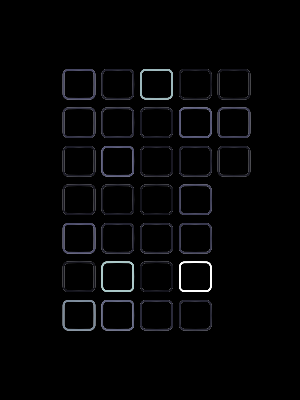
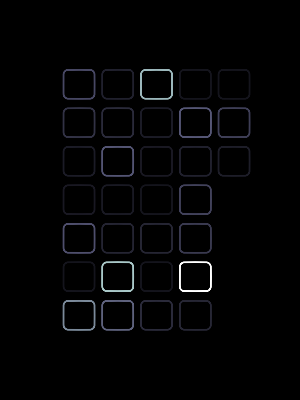
Fix plot problems when days longer than one month

diff --git a/contribution.py b/contribution.py
@@ -40,10 +40,13 @@ def contributionPlot(activity_observed, by = "month", save = "./", name = "contr
 			# print("insert")
 	elif (data_len > days):
 		activity = activity[-days:]
+		# print(data_len)
+		# print(len(activity))
 	for i in range(row * 7 - days):
 		activity = np.append(activity, -100000)
+	# print(activity)
 
-	planet_path, attributes = svg2paths("./img/rounded.svg")
+	planet_path, attributes = svg2paths(os.path.join(save, "rounded.svg"))
 	planet_marker = parse_path(attributes[0]['d'])
 	planet_marker.vertices -= planet_marker.vertices.mean(axis=0)
 	planet_marker = planet_marker.transformed(mpl.transforms.Affine2D().rotate_deg(180))
@@ -62,7 +65,8 @@ def contributionPlot(activity_observed, by = "month", save = "./", name = "contr
 	# print(c)
 	plt.figure(figsize = (fig_len, 4))
 	plt.style.use('dark_background')
-	plt.scatter(x = x[:(days - data_len + 1)], y = y[:(days - data_len + 1)], c = c[:(days - data_len + 1)], s = 700, marker = planet_marker, cmap = "bone", vmin = 0, vmax = 10)
+	if (data_len < days):
+		plt.scatter(x = x[:(days - data_len + 1)], y = y[:(days - data_len + 1)], c = c[:(days - data_len + 1)], s = 700, marker = planet_marker, cmap = "bone", vmin = 0, vmax = 10)
 	plt.scatter(x = x[-(data_len + 3):], y = y[-(data_len + 3):], c = c[-(data_len + 3):], s = 700, marker = planet_marker, cmap = "bone", vmin = (activity_min - 0.1 * max(activity)), vmax = max(activity))
 	# plt.text(-10, 6.5, "June", fontsize = 20)
 	# plt.colorbar()
